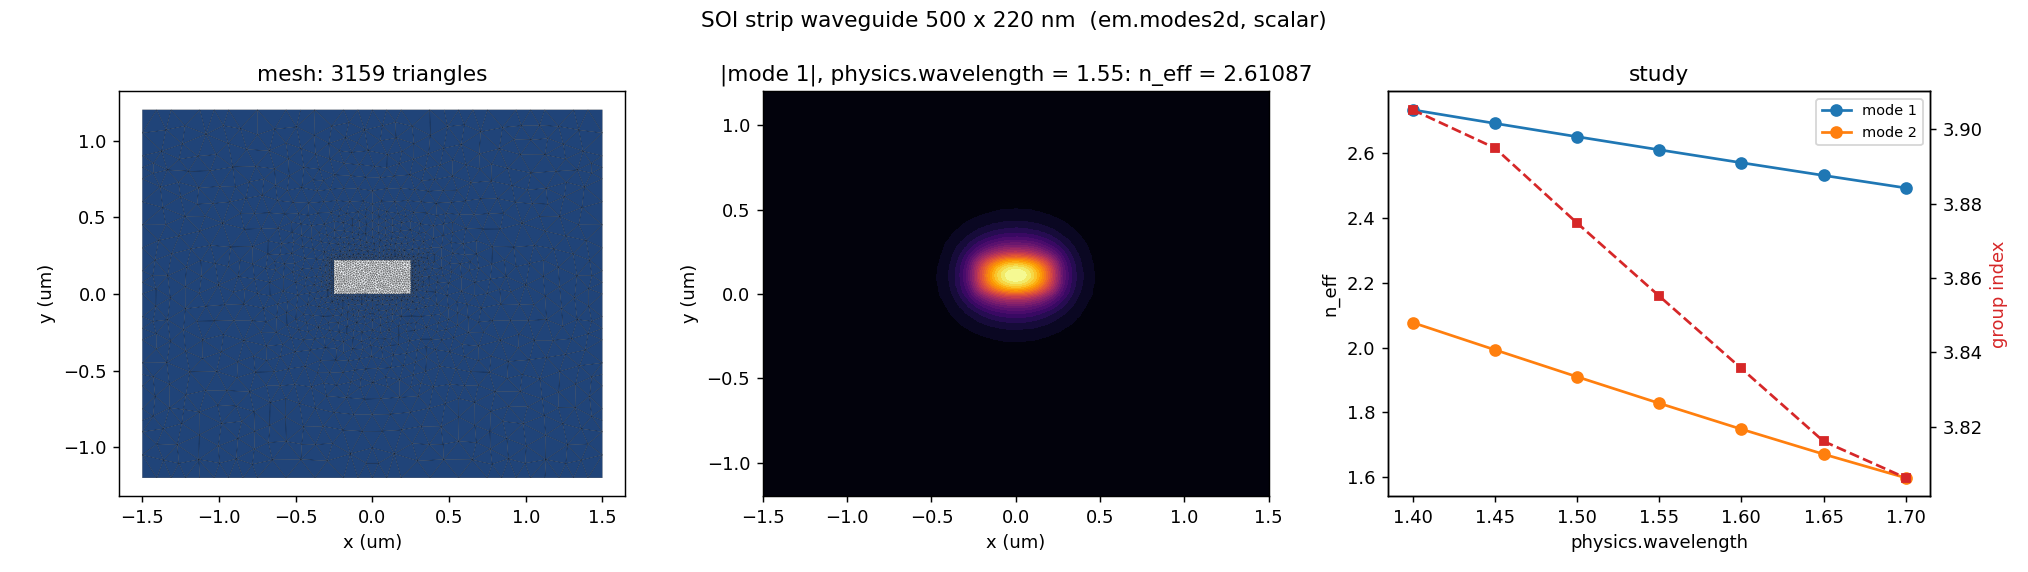
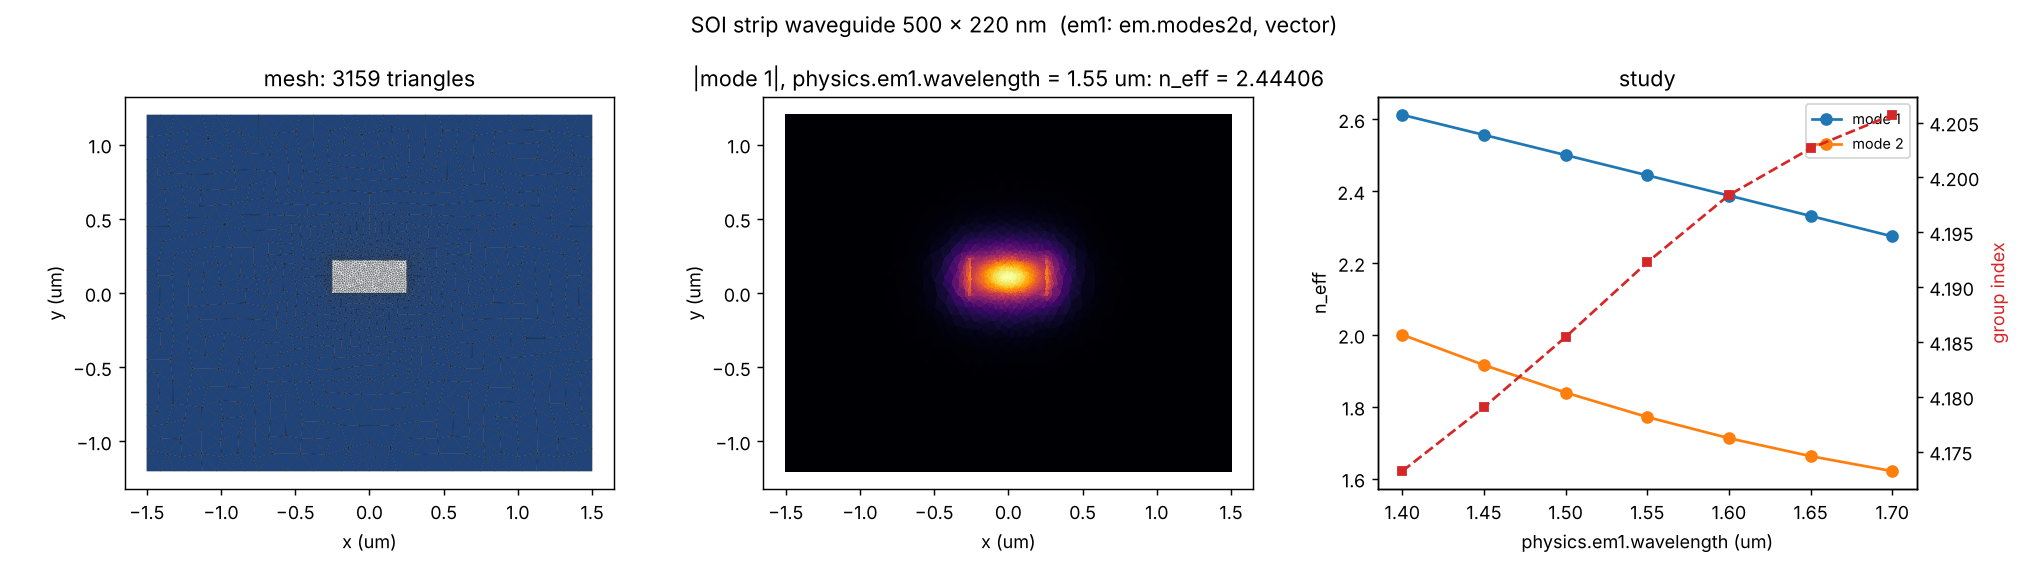
simcase: solve the soi_strip example as full vector modes
The supplied SOI strip and the Studio first screen used the scalar model,
which is far off for a high-contrast core: n_eff 2.611 at 1.55 um against
2.444 from the vector solver on the same mesh. The example now uses
"vector" with n_cladding 1.45, an upper bound of the SiO2 index over the
1.40-1.70 um sweep, so the tracked vector sweep keeps both modes.

The vector sweep runs in about 5 s. The example plot is regenerated from
it, and the package overview (English and Korean) states the scalar gap.

Claude-Session: https://claude.ai/code/session_01GFWn5JkULsrqjpwptVZY2X

diff --git a/packages/simcase/src/simcase/examples.py b/packages/simcase/src/simcase/examples.py
@@ -17,7 +17,8 @@ SOI_STRIP = {
             {"name": "core", "type": "rect", "x": -0.25, "y": 0.0, "w": 0.5, "h": 0.22, "material": "Si", "mesh_size": 0.02},
         ],
     },
-    "physics": {"em1": {"type": "em.modes2d", "formulation": "scalar", "wavelength": 1.55, "num_modes": 2,
+    "physics": {"em1": {"type": "em.modes2d", "formulation": "vector", "wavelength": 1.55, "num_modes": 2,
+                        "n_cladding": 1.45,
                         "boundary": {"left": "pec", "right": "pec", "top": "pec", "bottom": "pec"}}},
     "mesh": {"size": 0.25, "grading": {"center": [0.0, 0.11], "near": 0.02, "far": 0.16, "distance": 1.0}},
     "study": {"type": "sweep", "parameter": "physics.em1.wavelength", "values": [1.40, 1.45, 1.50, 1.55, 1.60, 1.65, 1.70]},

diff --git a/docs/assets.md b/docs/assets.md
@@ -16,7 +16,7 @@ validation run.
 | `examples/meshine/compare_with_gmsh.png` | `examples/meshine/compare_with_gmsh.py`, example mesh comparison |
 | `examples/physmat/materials.png` | `examples/physmat/plot_materials.py`, plotted material functions; optical data retains the terms in `packages/physmat/NOTICE` |
 | `docs/packages/simcase/geometry.png`, `mesh.png`, `results.png` | Screenshots of the project's own earlier Studio and SOI-strip example, introduced with the UI in commit `f44d7f8373f09ba9a7dbcd04066a0087485a3fd2` and retained through the package rename |
-| `examples/simcase/soi_strip_results.png` | SOI-strip example plot introduced with the document runner and input in commit `07d4a89`; the plot path is now `packages/simcase/src/simcase/runner.py` |
+| `examples/simcase/soi_strip_results.png` | SOI-strip example plot introduced with the document runner and input in commit `07d4a89`; regenerated from the vector example with `python -m simcase run examples/simcase/soi_strip.json`; the plot path is now `packages/simcase/src/simcase/runner.py` |
 | `docs/gallery/heated_plate.webp`, `heated_plate.png`, `coax.png`, `box_cavity.png` | Drawn by `examples/simcase/gallery.py` from `gallery_heated_plate.json`, `gallery_box_cavity.json` and the coax setup in the script; numbers and versions in the [gallery](gallery.md). The plate material values are approximate example inputs |
 | `tests/gmshio/data/unit_square.geo`, `unit_square.msh` | Unit-square geometry and its mesh fixture, introduced together with the reader and assertions in commit `b2fe26a`; the `.geo` supplies the points, edges and physical tags |
 

diff --git a/docs/locales/ko/pages/assets.md b/docs/locales/ko/pages/assets.md
@@ -14,7 +14,7 @@
 | `examples/meshine/compare_with_gmsh.png` | `examples/meshine/compare_with_gmsh.py`의 예제 메시 비교 |
 | `examples/physmat/materials.png` | `examples/physmat/plot_materials.py`의 재료 함수 그래프. 광학 데이터는 `packages/physmat/NOTICE`의 조건을 유지함 |
 | `docs/packages/simcase/geometry.png`, `mesh.png`, `results.png` | 자체 Studio의 이전 화면과 SOI-strip 예제 캡처. UI와 함께 커밋 `f44d7f8373f09ba9a7dbcd04066a0087485a3fd2`에 도입됐고 패키지 이름 변경 뒤에도 보존됨 |
-| `examples/simcase/soi_strip_results.png` | 문서 실행기·입력과 함께 커밋 `07d4a89`에 도입한 SOI-strip 예제 그림. 현재 그래프 생성 경로는 `packages/simcase/src/simcase/runner.py` |
+| `examples/simcase/soi_strip_results.png` | 문서 실행기·입력과 함께 커밋 `07d4a89`에 도입한 SOI-strip 예제 그림. 벡터 예제에서 `python -m simcase run examples/simcase/soi_strip.json`으로 다시 만듦. 현재 그래프 생성 경로는 `packages/simcase/src/simcase/runner.py` |
 | `docs/gallery/heated_plate.webp`, `heated_plate.png`, `coax.png`, `box_cavity.png` | `examples/simcase/gallery.py`가 `gallery_heated_plate.json`, `gallery_box_cavity.json`, 스크립트 안 동축 설정으로 그린 그림. 숫자와 버전은 [갤러리](gallery.md)에 있음. 판 재료값은 근사 예제 입력 |
 | `tests/gmshio/data/unit_square.geo`, `unit_square.msh` | reader·검사와 함께 커밋 `b2fe26a`에 도입한 단위 정사각형 형상과 메시 fixture. `.geo`에 점·변·physical tag를 명시함 |
 

diff --git a/docs/packages/simcase/overview.md b/docs/packages/simcase/overview.md
@@ -68,7 +68,8 @@ supported; `em.cavity3d` accepts lossy box materials.
   },
   "materials": {"myglass": {"n": 1.5}},
   "physics": {
-    "em1": {"type": "em.modes2d", "formulation": "scalar", "wavelength": 1.55, "num_modes": 2,
+    "em1": {"type": "em.modes2d", "formulation": "vector", "wavelength": 1.55, "num_modes": 2,
+            "n_cladding": 1.45,
             "boundary": {"left": "pec", "right": "pec", "top": "pec", "bottom": "pec"}}
   },
   "mesh": {"size": 0.25, "grading": {"center": [0.0, 0.11], "near": 0.02, "far": 0.16, "distance": 1.0}},
@@ -109,7 +110,9 @@ group index.
 
 For optical modes the physics is lossless `em.modes2d`, either `scalar` (exact for TE slab modes,
 an approximation for 2D high-contrast cores) or full `vector` for single points
-and tracked wavelength sweeps. Lossy materials are rejected in both paths. Scalar boundaries are
+and tracked wavelength sweeps. The supplied `soi_strip` uses `vector`. The scalar
+approximation is far off for such a core: the same document solved as `scalar`
+gives n_eff 2.611 at 1.55 um instead of 2.444. Lossy materials are rejected in both paths. Scalar boundaries are
 `pec` (field = 0) or `pmc` (natural). Vector PEC fixes tangential electric field
 and Ez; PMC is natural. These are different field conditions: changing only the
 formulation of a scalar slab can select a different polarization.

diff --git a/packages/simcase/README.md b/packages/simcase/README.md
@@ -68,7 +68,8 @@ supported; `em.cavity3d` accepts lossy box materials.
   },
   "materials": {"myglass": {"n": 1.5}},
   "physics": {
-    "em1": {"type": "em.modes2d", "formulation": "scalar", "wavelength": 1.55, "num_modes": 2,
+    "em1": {"type": "em.modes2d", "formulation": "vector", "wavelength": 1.55, "num_modes": 2,
+            "n_cladding": 1.45,
             "boundary": {"left": "pec", "right": "pec", "top": "pec", "bottom": "pec"}}
   },
   "mesh": {"size": 0.25, "grading": {"center": [0.0, 0.11], "near": 0.02, "far": 0.16, "distance": 1.0}},
@@ -109,7 +110,9 @@ group index.
 
 For optical modes the physics is lossless `em.modes2d`, either `scalar` (exact for TE slab modes,
 an approximation for 2D high-contrast cores) or full `vector` for single points
-and tracked wavelength sweeps. Lossy materials are rejected in both paths. Scalar boundaries are
+and tracked wavelength sweeps. The supplied `soi_strip` uses `vector`. The scalar
+approximation is far off for such a core: the same document solved as `scalar`
+gives n_eff 2.611 at 1.55 um instead of 2.444. Lossy materials are rejected in both paths. Scalar boundaries are
 `pec` (field = 0) or `pmc` (natural). Vector PEC fixes tangential electric field
 and Ez; PMC is natural. These are different field conditions: changing only the
 formulation of a scalar slab can select a different polarization.
